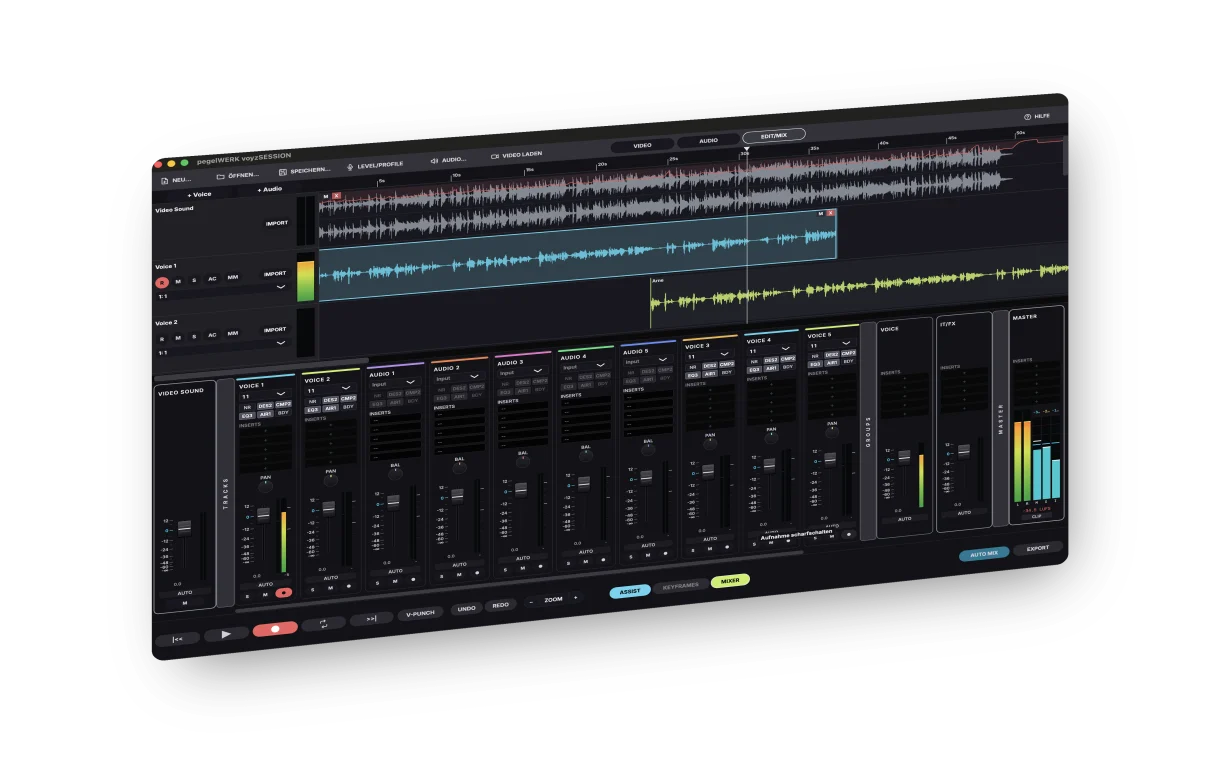
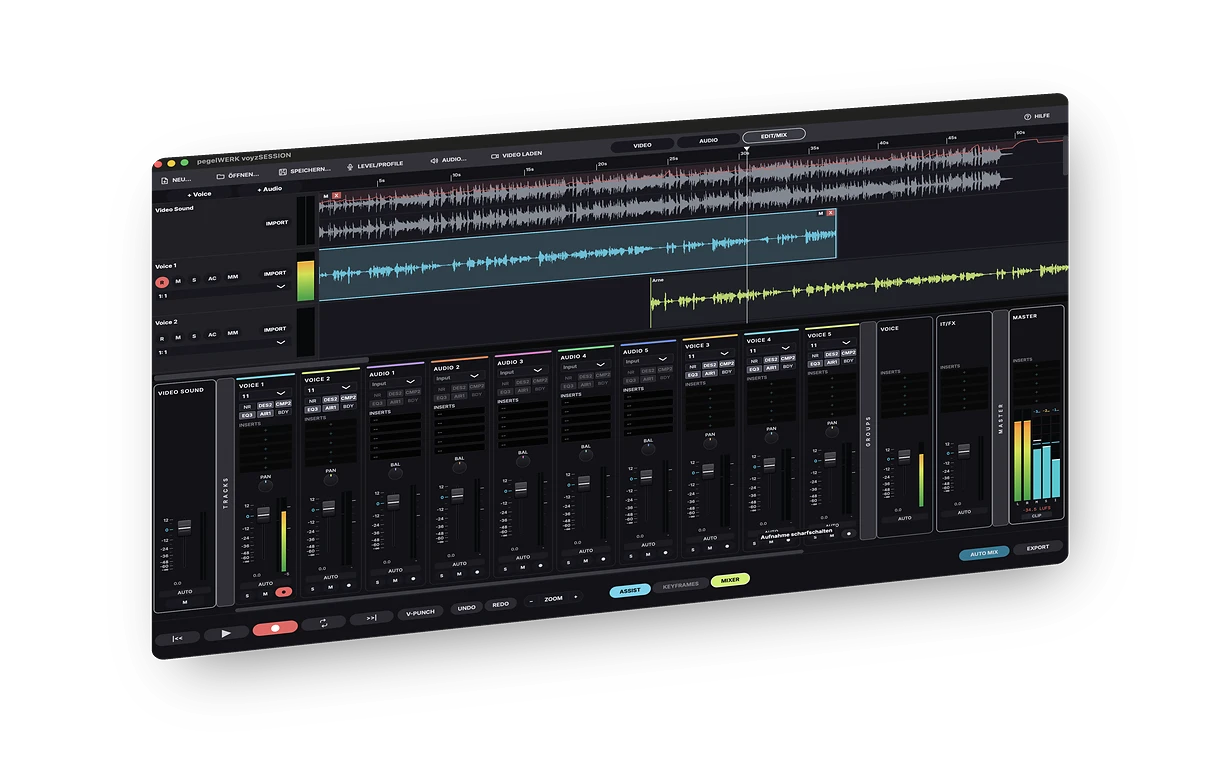
Drop the postcard back, seat the eyebrow, sharpen for 1x
Vier Dinge, die zusammengehoeren, weil sie alle am Hero haengen.

Die Rueckseite der Postkarte faellt weg — nur noch die Vorderseite. Der
Zwei-Spalten-Vergleich steht jetzt auf dem blossen Farbfeld, was ihm
guttut: die Aufzaehlungen fangen weiter oben an und das Band schliesst
enger an. Die beiden Bilddateien der Rueckseite sind geloescht, nicht
verwaist liegen geblieben.

Die Eyebrow sass IM Bild statt darunter. Auf der Karte steht sie unter
der gekippten Flaeche, also sitzt sie jetzt auch hier darunter — der
Ueberhang der Kopfzeile schrumpft von 118 auf 18 px.

Fuer 1x kommen die kleinen Fassungen jetzt aus PIL-LANCZOS statt aus
cwebps Rescaler, direkt aus dem 4501-px-Original, plus eine milde
Unsharp-Maske (r 0.8, 55 %, Schwelle 3). Die Schwelle haelt die Flaechen
ruhig und zieht nur Kanten an — Faderskalen und Kanalzuege. Dazu zwei
Zwischenbreiten (640, 900), damit auch ein schmaleres Fenster auf 1x
nicht im Browserfilter landet. Was bleibt, ist physikalisch: ein bei
2600 px gebauter Oberflaechen-Screenshot auf 1216 px hat halb so viele
Pixel, das holt kein Filter zurueck.

Und auf der iPad-Seite ist die Prompter-Falschaussage raus. Sie stand
da als eigener Kasten: „Der Prompter ist nicht Teil der iPad-Version."
Am iPad-PRODUKTZWEIG gemessen ist das Gegenteil wahr — Speech.framework
ist dort fuer beide Plattformen gelinkt, NSSpeechRecognitionUsage-
Description liegt in der iOS-Info.plist, und der Kommentar nennt
[…]

diff --git a/voyzsession.html b/voyzsession.html
@@ -122,8 +122,8 @@ nav{position:sticky;top:0;z-index:100;display:flex;align-items:center;justify-co
 .hero-art img{display:block;width:100%;height:100%;object-fit:cover;object-position:50% 82%;
  -webkit-mask-image:linear-gradient(180deg,#000 0%,#000 34%,rgba(0,0,0,.55) 62%,rgba(0,0,0,0) 96%);
  mask-image:linear-gradient(180deg,#000 0%,#000 34%,rgba(0,0,0,.55) 62%,rgba(0,0,0,0) 96%)}
-.hero-copy{position:relative;z-index:2;max-width:900px;margin:-118px auto 0;padding:0 24px;text-align:center}
-@media(max-width:900px){.hero-copy{margin-top:-70px}}
+.hero-copy{position:relative;z-index:2;max-width:900px;margin:-18px auto 0;padding:0 24px;text-align:center}
+@media(max-width:900px){.hero-copy{margin-top:-8px}}
 .lockup{display:flex;align-items:center;justify-content:center;gap:14px;margin:16px 0 0}
 .lockup img{width:min(62%,430px);height:auto;display:block}
 .chip{font-family:'Arimo',sans-serif;font-weight:700;font-size:clamp(18px,2.4vw,28px);letter-spacing:.06em;
@@ -149,13 +149,7 @@ nav{position:sticky;top:0;z-index:100;display:flex;align-items:center;justify-co
 .section-intro{color:var(--mu2);font-size:15px;line-height:1.75;text-align:center;max-width:700px;margin:0 auto 56px;text-wrap:balance}
 
 /* ── Zwei-Spalten-Vergleich ASSIST / MANUAL ──────────────────────────── */
-.modes-art{position:relative;max-width:1140px;margin:0 auto;padding:0 12px;
- aspect-ratio:2.6/1;max-height:52vh}
-.modes-art img{display:block;width:100%;height:100%;object-fit:cover;object-position:50% 88%;
- -webkit-mask-image:linear-gradient(180deg,#000 0%,#000 28%,rgba(0,0,0,.5) 58%,rgba(0,0,0,0) 94%);
- mask-image:linear-gradient(180deg,#000 0%,#000 28%,rgba(0,0,0,.5) 58%,rgba(0,0,0,0) 94%)}
-.modes-body{position:relative;z-index:2;max-width:1120px;margin:-96px auto 0;padding:0 32px 96px}
-@media(max-width:900px){.modes-body{margin-top:-60px}}
+.modes-body{position:relative;z-index:2;max-width:1120px;margin:0 auto;padding:104px 32px 96px}
 .modes-rule{height:1px;background:rgba(18,208,255,.45);margin:22px 0 40px}
 .modes{display:grid;grid-template-columns:1fr 1fr;gap:0}
 .mode{padding:0 44px}
@@ -212,14 +206,13 @@ nav{position:sticky;top:0;z-index:100;display:flex;align-items:center;justify-co
 
 @media(max-width:760px){
  .hero-art{aspect-ratio:1.7/1}
- .modes-art{aspect-ratio:1.8/1}
 }
 @media(max-width:900px){
  nav{padding:14px 20px}
  .nav-links{gap:18px}
  .features,.workflow{grid-template-columns:1fr}
  .section{padding:72px 20px 0}
- .modes-body{padding:0 20px 72px}
+ .modes-body{padding:72px 20px 72px}
  .prompter-figure{padding:0 20px}
 }
 @media(max-width:600px){
@@ -278,8 +271,8 @@ h1,h2,h3,h4,h5,p,li{text-wrap:balance}
 <!-- ╔══ Hero: gekippte Flaeche ueber dem Farbfeld ═══════════════════════╗ -->
 <header class="field hero">
  <div class="hero-art">
- <img src="img-voyz-hero-mixer-1x.webp?v=2" width="1216" height="762"
-      srcset="img-voyz-hero-mixer-1x.webp?v=2 1216w, img-voyz-hero-mixer.webp?v=2 2432w"
+ <img src="img-voyz-hero-mixer-1x.webp?v=3" width="1216" height="762"
+      srcset="img-voyz-hero-mixer-640.webp?v=3 640w, img-voyz-hero-mixer-900.webp?v=3 900w, img-voyz-hero-mixer-1x.webp?v=3 1216w, img-voyz-hero-mixer.webp?v=2 2432w"
       sizes="(max-width: 1264px) calc(100vw - 24px), 1216px"
       alt="voyzSESSION PRO: Mischpult mit Voice-, Audio- und Gruppenkanaelen, Timeline mit Wellenformen">
  </div>
@@ -302,12 +295,6 @@ h1,h2,h3,h4,h5,p,li{text-wrap:balance}
 
 <!-- ╔══ ONE SESSION, TWO WAYS TO WORK ══════════════════════════════════╗ -->
 <section class="field" id="modes">
- <div class="modes-art">
- <img src="img-voyz-hero-timeline-1x.webp?v=2" width="1116" height="701" loading="lazy"
-      srcset="img-voyz-hero-timeline-1x.webp?v=2 1116w, img-voyz-hero-timeline.webp?v=2 2232w"
-      sizes="(max-width: 1164px) calc(100vw - 24px), 1116px"
-      alt="voyzSESSION PRO: Script links, Video rechts, darunter die Timeline mit Voice- und Bett-Spur">
- </div>
  <div class="modes-body">
  <h2 class="eyebrow">One session, two ways to work</h2>
  <div class="modes-rule"></div>

diff --git a/voyzsession-ios.html b/voyzsession-ios.html
@@ -339,7 +339,7 @@ h1,h2,h3,h4,h5,p,li{text-wrap:balance}
  <ul>
  <li><b>OS</b> iPadOS 16+ (iPad-only)</li>
  <li><b>Bundle</b> com.satk.overdubstudio</li>
- <li><b>Video</b> MP4 · MOV · WebM</li>
+ <li><b>Video</b> MP4 · MOV · M4V</li>
  <li><b>Export</b> WAV-Stems · Video-Mux</li>
  <li><b>UI</b> Dark, Full-Screen, English</li>
  </ul>
@@ -347,8 +347,8 @@ h1,h2,h3,h4,h5,p,li{text-wrap:balance}
  </div>
 
  <div class="not-in-callout">
- <h4 data-i18n="od_notin_h">Nicht im iPad-Build</h4>
- <p data-i18n="od_notin_p">Der <b>Prompter</b> ist nicht Teil der iPad-Version. Auf dem iPad geht es um den Mix-Workflow, Skript-Mitlesen mit Auto-Scroll ist als eigenständiges Produkt <b>pegelWERK smart PROMPTER</b> in Vorbereitung. Wer den Prompter integriert braucht, nimmt voyzSESSION.</p>
+ <h4 data-i18n="od_notin_h">iPad und Mac im Vergleich</h4>
+ <p data-i18n-html="od_notin_p">Der <b>Prompter ist an Bord</b> - mit Auto-Scroll, das der Stimme folgt, und mit Erkennung direkt auf dem Gerät. Nicht im iPad-Build sind die Werkstatt-Teile der Mac-Fassung: <b>AU/VST3-Plugins</b>, der <b>Script-Editor</b> mit Transkription, die <b>MXF-Delivery-Profile</b>, <b>Hardware-Konsolen</b> und die <b>virtuelle Kamera</b>. Wer die braucht, nimmt <a href="/voyzsession">voyzSESSION PRO für Mac</a>.</p>
  </div>
 </section>
 
@@ -437,8 +437,8 @@ const i18n = {
  od_specs_dsp: 'Standards & DSP',
  od_specs_audio: 'Audio Engine',
  od_specs_io: 'Plattform & I/O',
- od_notin_h: 'Nicht im iPad-Build',
- od_notin_p: 'Der Prompter ist nicht Teil der iPad-Version. Auf dem iPad geht es um den Mix-Workflow, Skript-Mitlesen mit Auto-Scroll ist als eigenständiges Produkt pegelWERK smart PROMPTER in Vorbereitung. Wer den Prompter integriert braucht, nimmt voyzSESSION.',
+ od_notin_h: 'iPad und Mac im Vergleich',
+ od_notin_p: 'Der <b>Prompter ist an Bord</b> - mit Auto-Scroll, das der Stimme folgt, und mit Erkennung direkt auf dem Gerät. Nicht im iPad-Build sind die Werkstatt-Teile der Mac-Fassung: <b>AU/VST3-Plugins</b>, der <b>Script-Editor</b> mit Transkription, die <b>MXF-Delivery-Profile</b>, <b>Hardware-Konsolen</b> und die <b>virtuelle Kamera</b>. Wer die braucht, nimmt <a href="/voyzsession">voyzSESSION PRO für Mac</a>.',
  od_credo_label: 'Was es nicht ist',
  od_credo_title: 'Kein Baukasten.',
  od_credo_p: 'voyzSESSION ist kein iPad-DAW-Schnipsel. Es ist ein fokussiertes Werkzeug für Voice-Over gegen Bild: Video rein, Stimme drauf, AutoMix, Export. Wenn du Multitrack-Mischen, Plug-ins oder MIDI willst, nimm eine DAW. Wenn du in zehn Minuten eine sendefertige Sprach-Mische willst, nimm voyzSESSION.',
@@ -500,8 +500,8 @@ const i18n = {
  od_specs_dsp: 'Standards & DSP',
  od_specs_audio: 'Audio Engine',
  od_specs_io: 'Platform & I/O',
- od_notin_h: 'Not in the iPad build',
- od_notin_p: 'The prompter is not part of the iPad version. iPad is about the mix workflow, script auto-scroll is in preparation as a separate product, pegelWERK smart PROMPTER. If you need the prompter integrated, get voyzSESSION.',
+ od_notin_h: 'iPad and Mac side by side',
+ od_notin_p: 'The <b>prompter is on board</b> - with auto-scroll that follows your voice, and with recognition running on the device itself. What the iPad build leaves out are the workshop parts of the Mac edition: <b>AU/VST3 plugins</b>, the <b>script editor</b> with transcription, the <b>MXF delivery profiles</b>, <b>hardware control surfaces</b> and the <b>virtual camera</b>. If you need those, get <a href="/voyzsession">voyzSESSION PRO for Mac</a>.',
  od_credo_label: 'What it is not',
  od_credo_title: 'Not an erector set.',
  od_credo_p: 'voyzSESSION is not an iPad DAW snippet. It is a focused tool for voice-over against picture: video in, voice on top, AutoMix, export. If you want multitrack mixing, plug-ins or MIDI, get a DAW. If you want a broadcast-ready voice mix in ten minutes, get voyzSESSION.',
